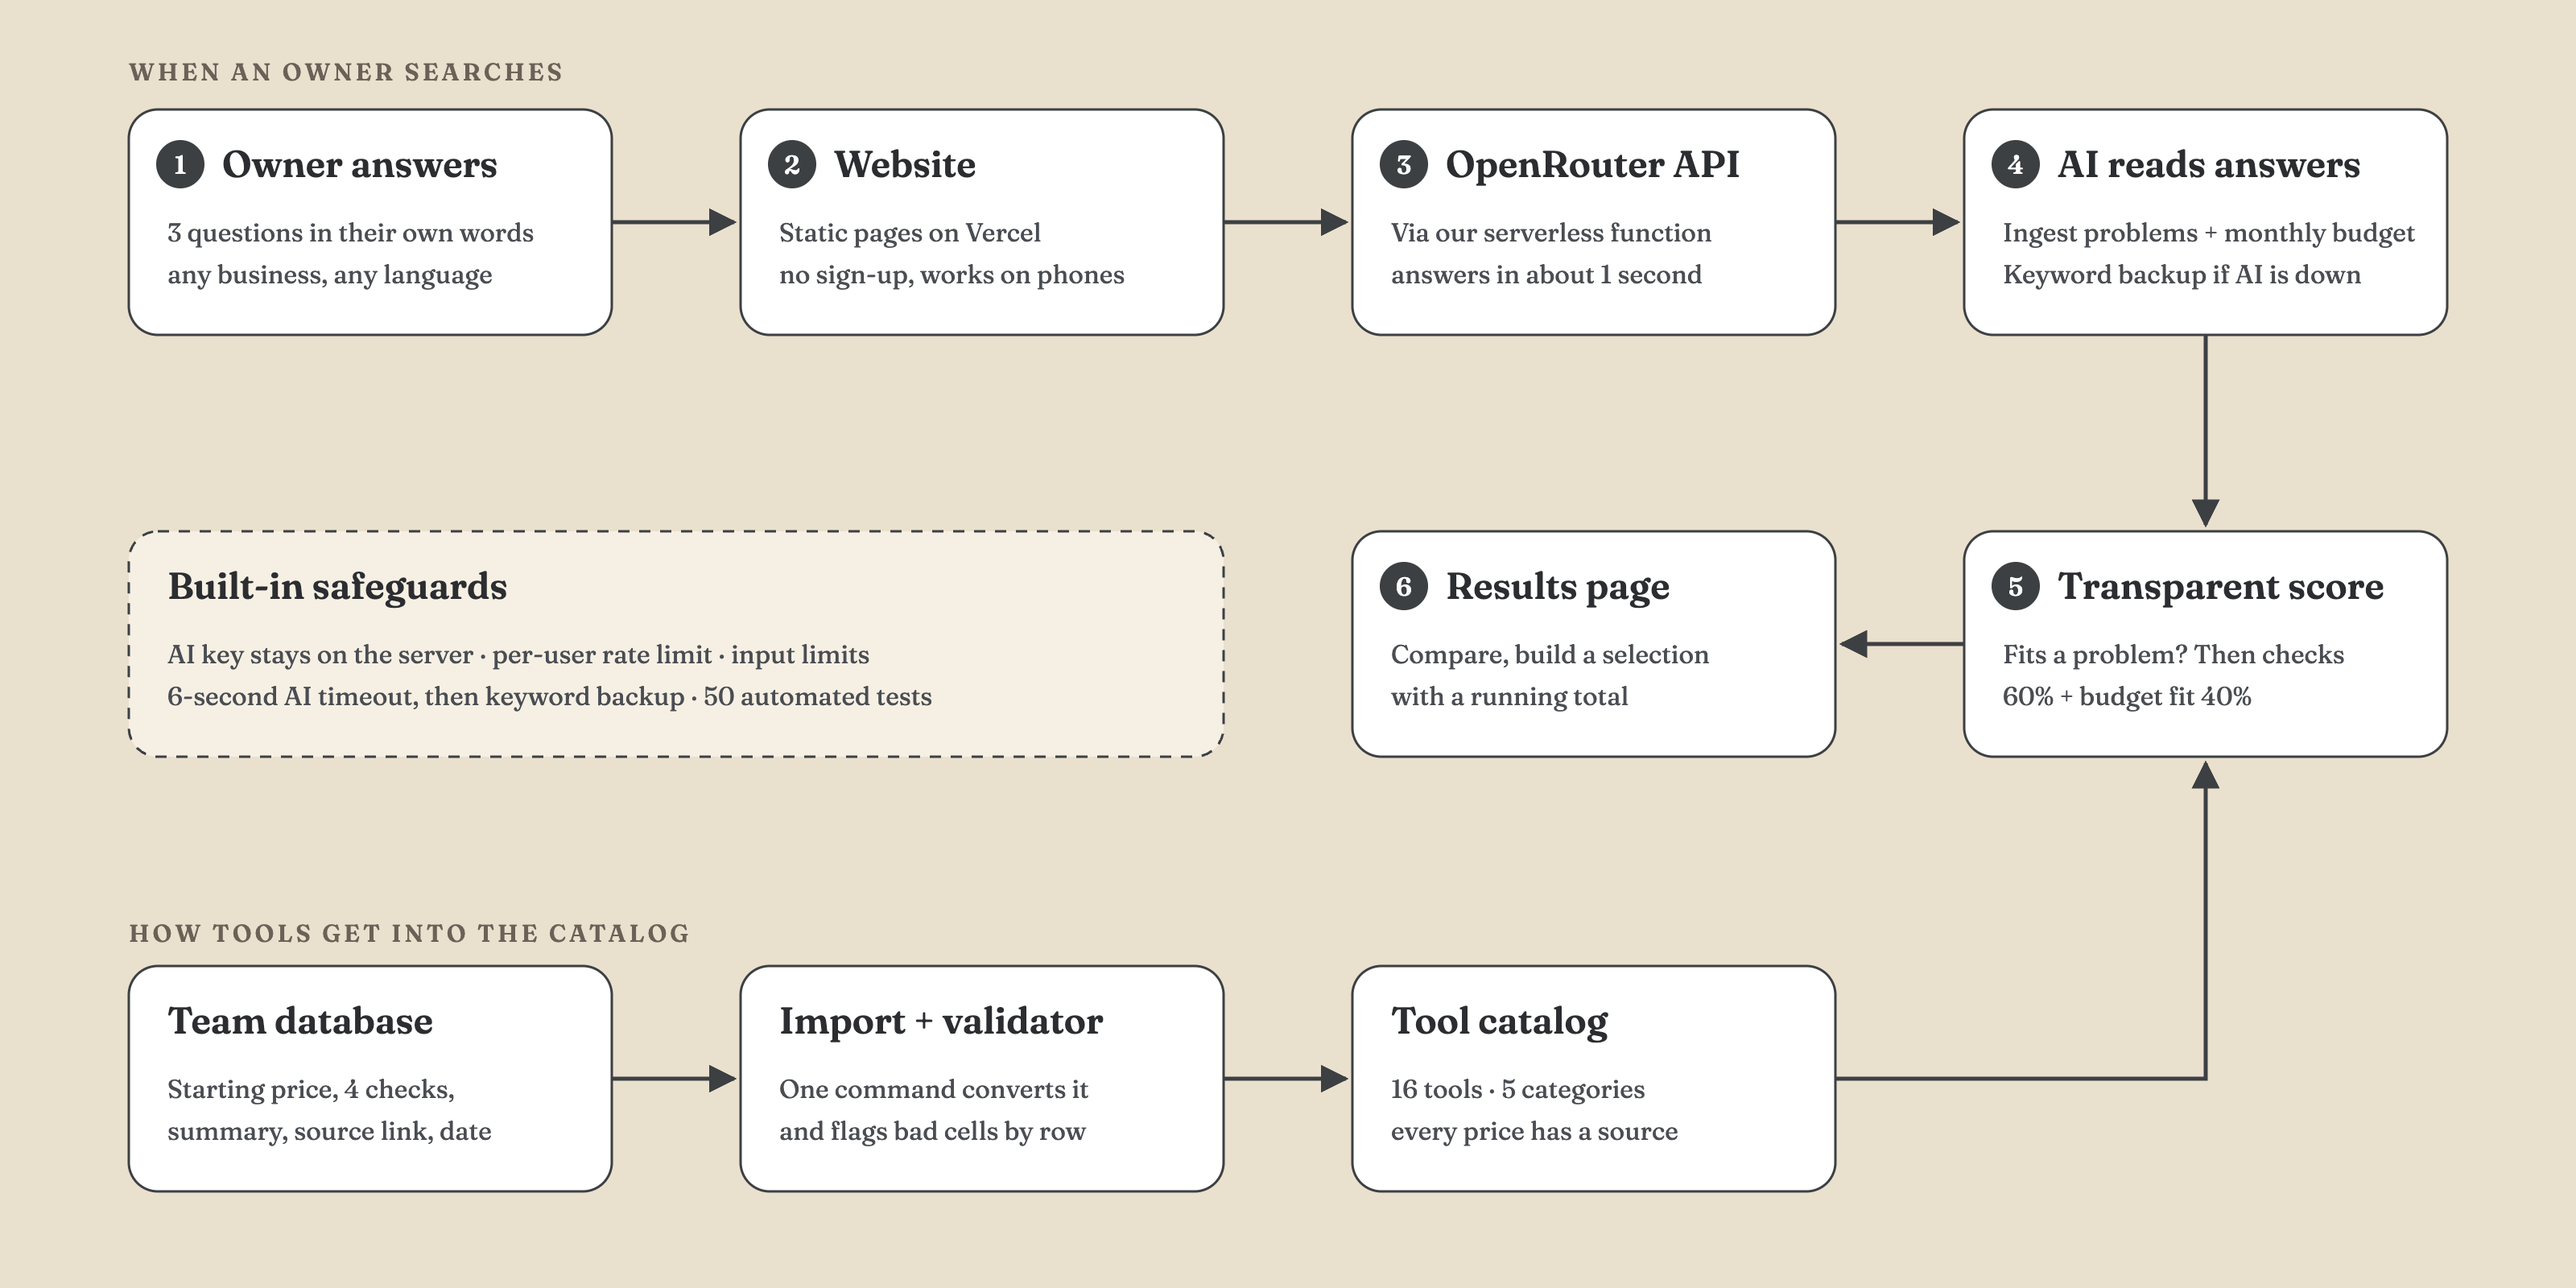
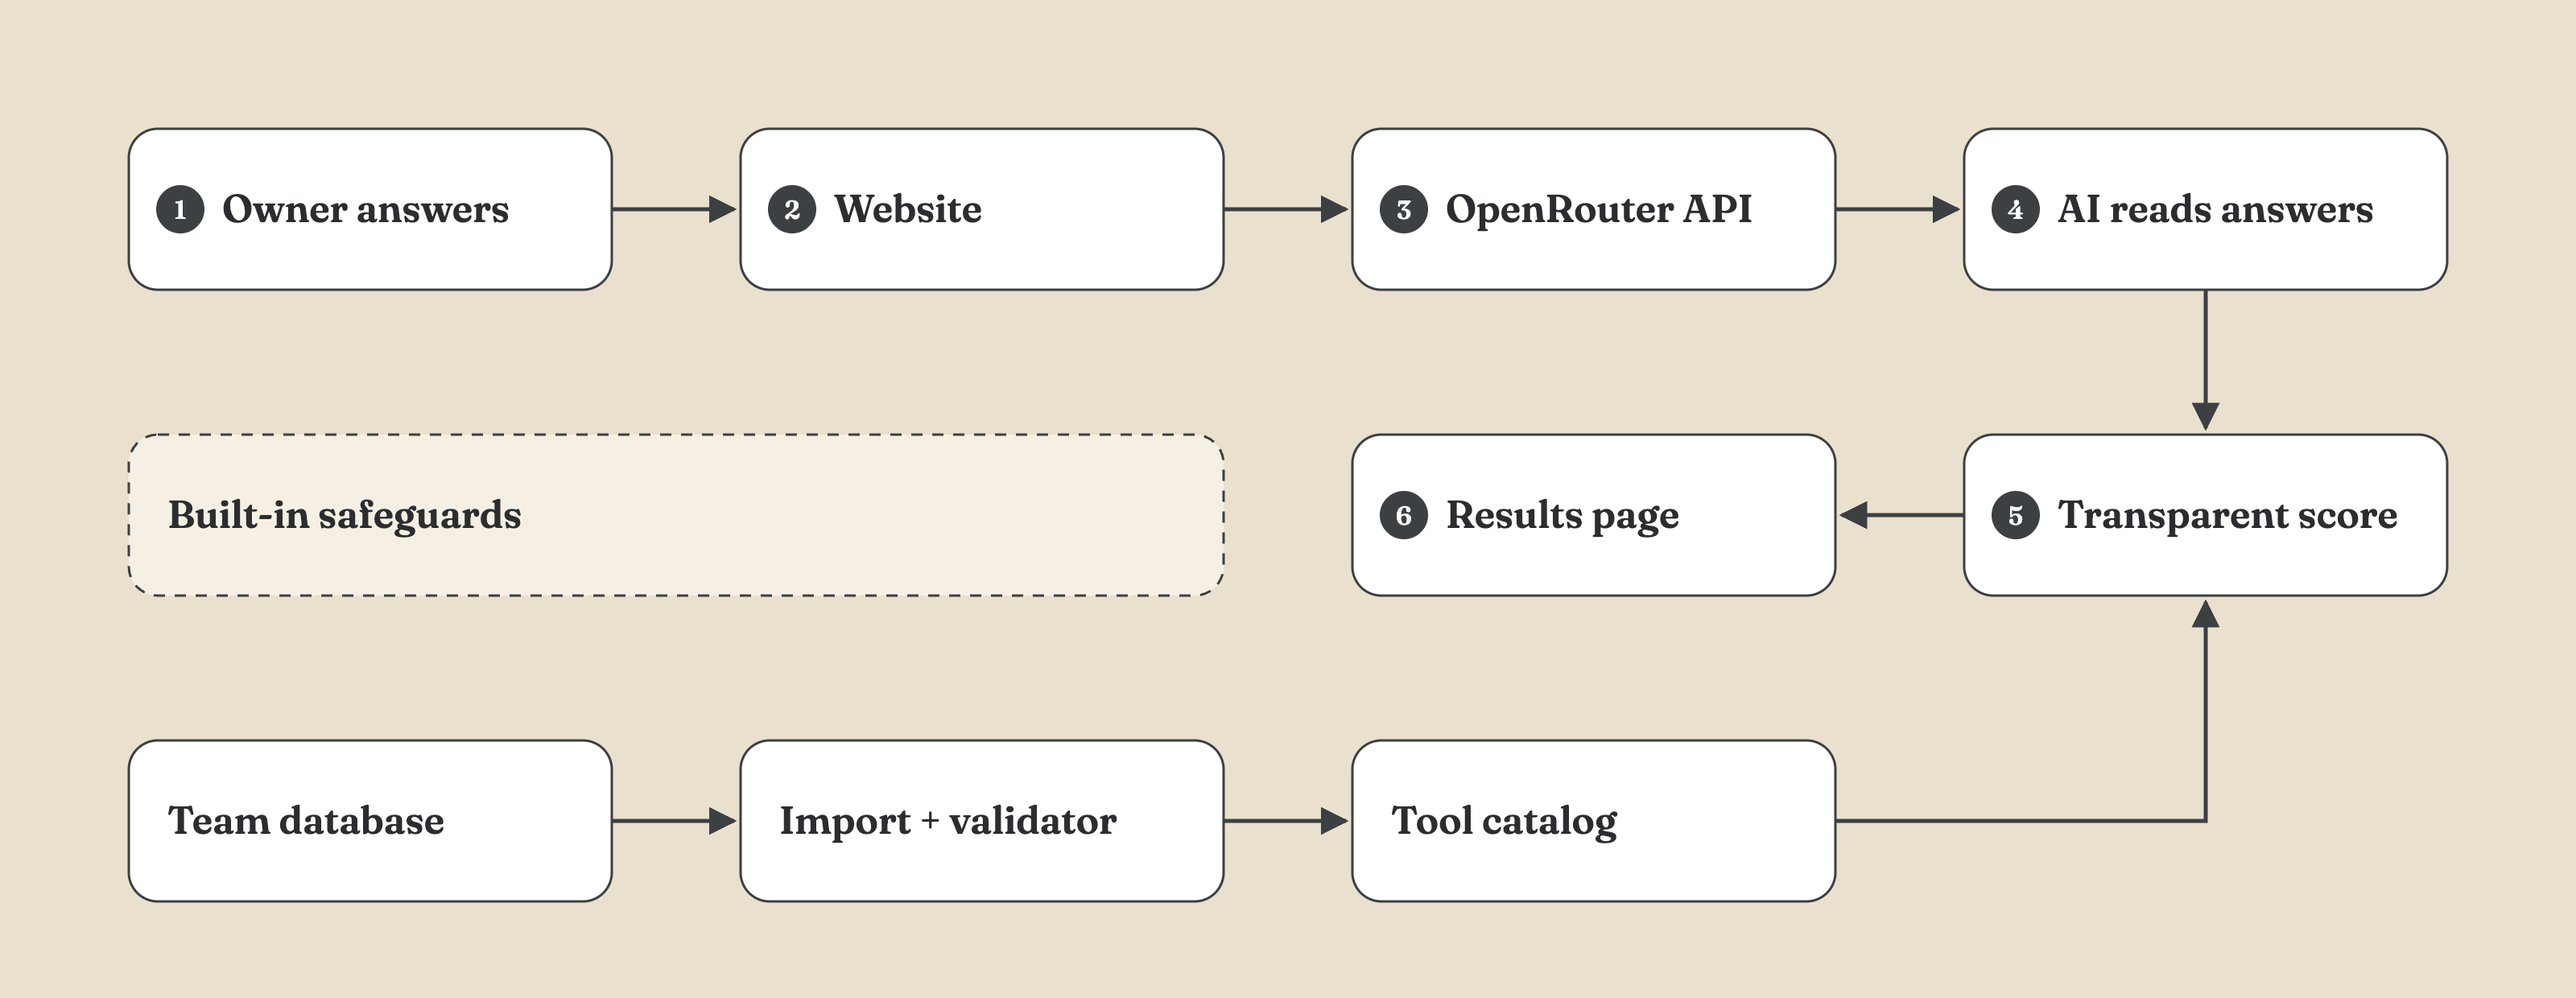
diag update

diff --git a/docs/architecture-diagram.html b/docs/architecture-diagram.html
@@ -1,109 +1,72 @@
 <!doctype html>
+<!-- Source for docs/architecture-diagram.png. Edit the labels here, then screenshot at 2x (1600x620). -->
 <html><head><meta charset="utf-8">
-<link rel="stylesheet" href="https://fonts.googleapis.com/css2?family=Fraunces:opsz,wght@9..144,400;9..144,600&display=swap">
+<link rel="stylesheet" href="https://fonts.googleapis.com/css2?family=Fraunces:opsz,wght@9..144,600&display=swap">
 <style>
   html, body { margin: 0; background: #EAE0CE; }
   svg { display: block; font-family: "Fraunces", Georgia, serif; }
   .box { fill: #fff; stroke: #3c4043; stroke-width: 1.5; }
   .note { fill: #f6f0e4; stroke: #3c4043; stroke-width: 1.5; stroke-dasharray: 7 6; }
-  .t { font-size: 23px; fill: #2b2d30; font-weight: 600; }
-  .s { font-size: 16px; fill: #4a4d52; font-weight: 400; }
-  .lane { font-size: 15px; fill: #6b6157; letter-spacing: 2px; font-weight: 600; }
+  .t { font-size: 24px; fill: #2b2d30; font-weight: 600; }
   .arrow { stroke: #3c4043; stroke-width: 2.5; fill: none; marker-end: url(#head); }
   .num { fill: #3c4043; }
-  .numt { fill: #fff; font-size: 16px; font-weight: 700; text-anchor: middle; }
+  .numt { fill: #fff; font-size: 16px; font-weight: 600; text-anchor: middle; }
 </style></head><body>
-<svg width="1600" height="800" viewBox="0 0 1600 800" xmlns="http://www.w3.org/2000/svg">
+<svg width="1600" height="620" viewBox="0 0 1600 620" xmlns="http://www.w3.org/2000/svg">
   <defs>
     <marker id="head" viewBox="0 0 10 10" refX="9" refY="5" markerWidth="7" markerHeight="7" orient="auto-start-reverse">
       <path d="M0,0 L10,5 L0,10 z" fill="#3c4043"/>
     </marker>
   </defs>
 
-  <!-- Lane labels -->
-  <text class="lane" x="80" y="50">WHEN AN OWNER SEARCHES</text>
-  <text class="lane" x="80" y="585">HOW TOOLS GET INTO THE CATALOG</text>
+  <!-- Row 1: an owner's search -->
+  <rect class="box" x="80" y="80" width="300" height="100" rx="18"/>
+  <circle class="num" cx="112" cy="130" r="15"/><text class="numt" x="112" y="136">1</text>
+  <text class="t" x="138" y="138">Owner answers</text>
 
-  <!-- Row A: request flow -->
-  <g>
-    <rect class="box" x="80" y="68" width="300" height="140" rx="18"/>
-    <circle class="num" cx="112" cy="102" r="15"/><text class="numt" x="112" y="108">1</text>
-    <text class="t" x="138" y="110">Owner answers</text>
-    <text class="s" x="104" y="150">3 questions in their own words</text>
-    <text class="s" x="104" y="176">any business, any language</text>
-  </g>
-  <g>
-    <rect class="box" x="460" y="68" width="300" height="140" rx="18"/>
-    <circle class="num" cx="492" cy="102" r="15"/><text class="numt" x="492" y="108">2</text>
-    <text class="t" x="518" y="110">Website</text>
-    <text class="s" x="484" y="150">Static pages on Vercel</text>
-    <text class="s" x="484" y="176">no sign-up, works on phones</text>
-  </g>
-  <g>
-    <rect class="box" x="840" y="68" width="300" height="140" rx="18"/>
-    <circle class="num" cx="872" cy="102" r="15"/><text class="numt" x="872" y="108">3</text>
-    <text class="t" x="898" y="110">OpenRouter API</text>
-    <text class="s" x="864" y="150">Via our serverless function</text>
-    <text class="s" x="864" y="176">answers in about 1 second</text>
-  </g>
-  <g>
-    <rect class="box" x="1220" y="68" width="300" height="140" rx="18"/>
-    <circle class="num" cx="1252" cy="102" r="15"/><text class="numt" x="1252" y="108">4</text>
-    <text class="t" x="1278" y="110">AI reads answers</text>
-    <text class="s" x="1244" y="150">Ingest problems + monthly budget</text>
-    <text class="s" x="1244" y="176">Keyword backup if AI is down</text>
-  </g>
-  <path class="arrow" d="M380,138 L456,138"/>
-  <path class="arrow" d="M760,138 L836,138"/>
-  <path class="arrow" d="M1140,138 L1216,138"/>
-  <path class="arrow" d="M1370,208 L1370,326"/>
+  <rect class="box" x="460" y="80" width="300" height="100" rx="18"/>
+  <circle class="num" cx="492" cy="130" r="15"/><text class="numt" x="492" y="136">2</text>
+  <text class="t" x="518" y="138">Website</text>
 
-  <!-- Row B -->
-  <g>
-    <rect class="box" x="1220" y="330" width="300" height="140" rx="18"/>
-    <circle class="num" cx="1252" cy="364" r="15"/><text class="numt" x="1252" y="370">5</text>
-    <text class="t" x="1278" y="372">Transparent score</text>
-    <text class="s" x="1244" y="412">Fits a problem? Then checks</text>
-    <text class="s" x="1244" y="438">60% + budget fit 40%</text>
-  </g>
-  <g>
-    <rect class="box" x="840" y="330" width="300" height="140" rx="18"/>
-    <circle class="num" cx="872" cy="364" r="15"/><text class="numt" x="872" y="370">6</text>
-    <text class="t" x="898" y="372">Results page</text>
-    <text class="s" x="864" y="412">Compare, build a selection</text>
-    <text class="s" x="864" y="438">with a running total</text>
-  </g>
-  <path class="arrow" d="M1220,400 L1144,400"/>
+  <rect class="box" x="840" y="80" width="300" height="100" rx="18"/>
+  <circle class="num" cx="872" cy="130" r="15"/><text class="numt" x="872" y="136">3</text>
+  <text class="t" x="898" y="138">OpenRouter API</text>
 
-  <!-- Safeguards note -->
-  <g>
-    <rect class="note" x="80" y="330" width="680" height="140" rx="18"/>
-    <text class="t" x="104" y="372">Built-in safeguards</text>
-    <text class="s" x="104" y="412">AI key stays on the server · per-user rate limit · input limits</text>
-    <text class="s" x="104" y="438">6-second AI timeout, then keyword backup · 50 automated tests</text>
-  </g>
+  <rect class="box" x="1220" y="80" width="300" height="100" rx="18"/>
+  <circle class="num" cx="1252" cy="130" r="15"/><text class="numt" x="1252" y="136">4</text>
+  <text class="t" x="1278" y="138">AI reads answers</text>
 
-  <!-- Row C: data pipeline -->
-  <g>
-    <rect class="box" x="80" y="600" width="300" height="140" rx="18"/>
-    <text class="t" x="104" y="642">Team database</text>
-    <text class="s" x="104" y="682">Starting price, 4 checks,</text>
-    <text class="s" x="104" y="708">summary, source link, date</text>
-  </g>
-  <g>
-    <rect class="box" x="460" y="600" width="300" height="140" rx="18"/>
-    <text class="t" x="484" y="642">Import + validator</text>
-    <text class="s" x="484" y="682">One command converts it</text>
-    <text class="s" x="484" y="708">and flags bad cells by row</text>
-  </g>
-  <g>
-    <rect class="box" x="840" y="600" width="300" height="140" rx="18"/>
-    <text class="t" x="864" y="642">Tool catalog</text>
-    <text class="s" x="864" y="682">16 tools · 5 categories</text>
-    <text class="s" x="864" y="708">every price has a source</text>
-  </g>
-  <path class="arrow" d="M380,670 L456,670"/>
-  <path class="arrow" d="M760,670 L836,670"/>
-  <path class="arrow" d="M1140,670 L1370,670 L1370,474"/>
+  <path class="arrow" d="M380,130 L456,130"/>
+  <path class="arrow" d="M760,130 L836,130"/>
+  <path class="arrow" d="M1140,130 L1216,130"/>
+  <path class="arrow" d="M1370,180 L1370,266"/>
+
+  <!-- Row 2 -->
+  <rect class="note" x="80" y="270" width="680" height="100" rx="18"/>
+  <text class="t" x="104" y="328">Built-in safeguards</text>
+
+  <rect class="box" x="840" y="270" width="300" height="100" rx="18"/>
+  <circle class="num" cx="872" cy="320" r="15"/><text class="numt" x="872" y="326">6</text>
+  <text class="t" x="898" y="328">Results page</text>
+
+  <rect class="box" x="1220" y="270" width="300" height="100" rx="18"/>
+  <circle class="num" cx="1252" cy="320" r="15"/><text class="numt" x="1252" y="326">5</text>
+  <text class="t" x="1278" y="328">Transparent score</text>
+
+  <path class="arrow" d="M1220,320 L1144,320"/>
+
+  <!-- Row 3: how tools get into the catalog -->
+  <rect class="box" x="80" y="460" width="300" height="100" rx="18"/>
+  <text class="t" x="104" y="518">Team database</text>
+
+  <rect class="box" x="460" y="460" width="300" height="100" rx="18"/>
+  <text class="t" x="484" y="518">Import + validator</text>
+
+  <rect class="box" x="840" y="460" width="300" height="100" rx="18"/>
+  <text class="t" x="864" y="518">Tool catalog</text>
+
+  <path class="arrow" d="M380,510 L456,510"/>
+  <path class="arrow" d="M760,510 L836,510"/>
+  <path class="arrow" d="M1140,510 L1370,510 L1370,374"/>
 </svg>
 </body></html>
